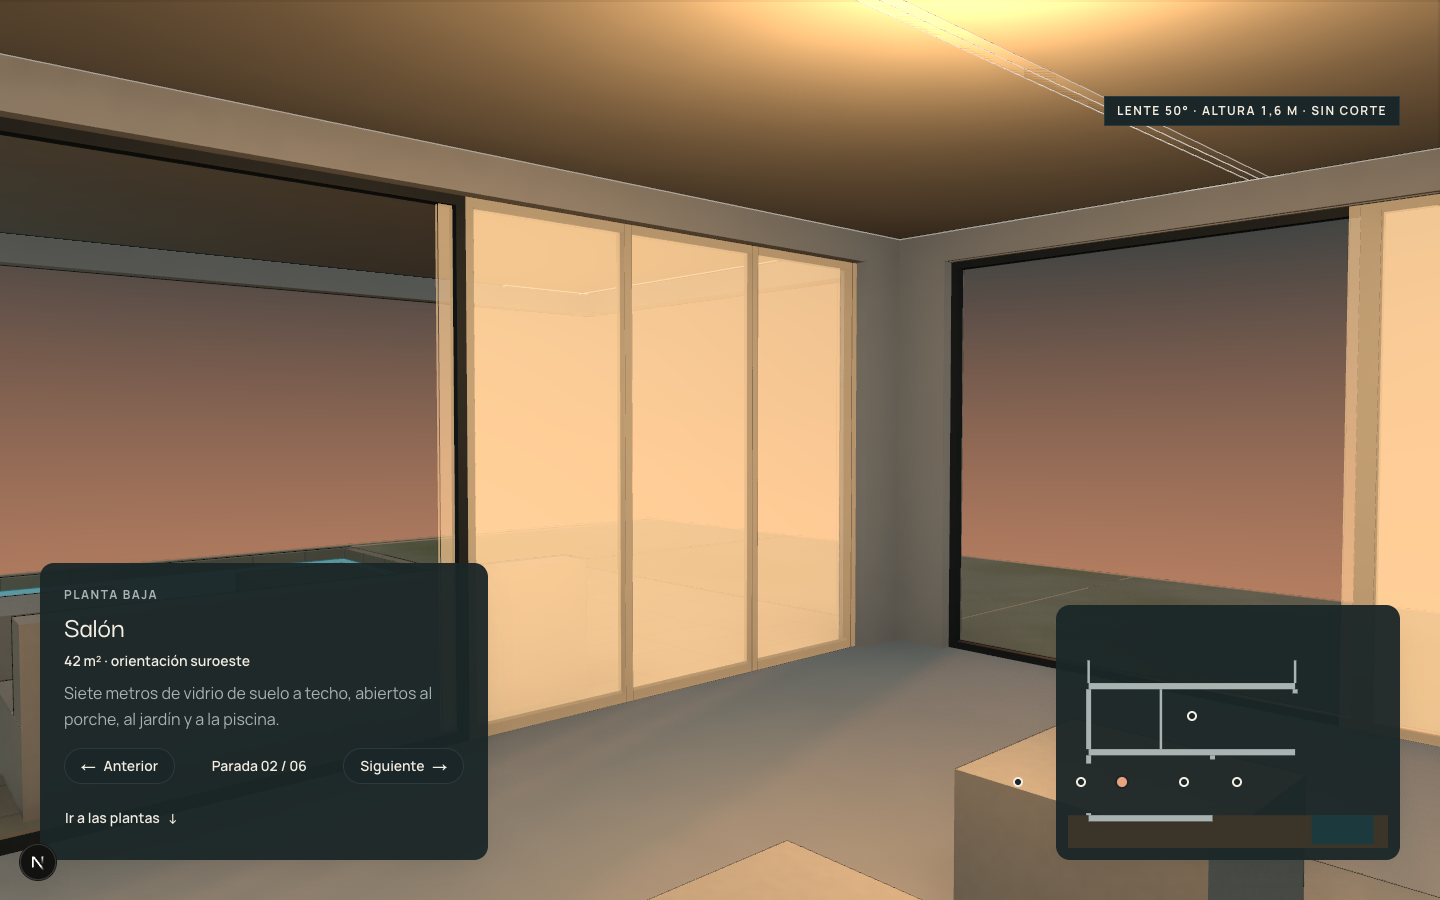
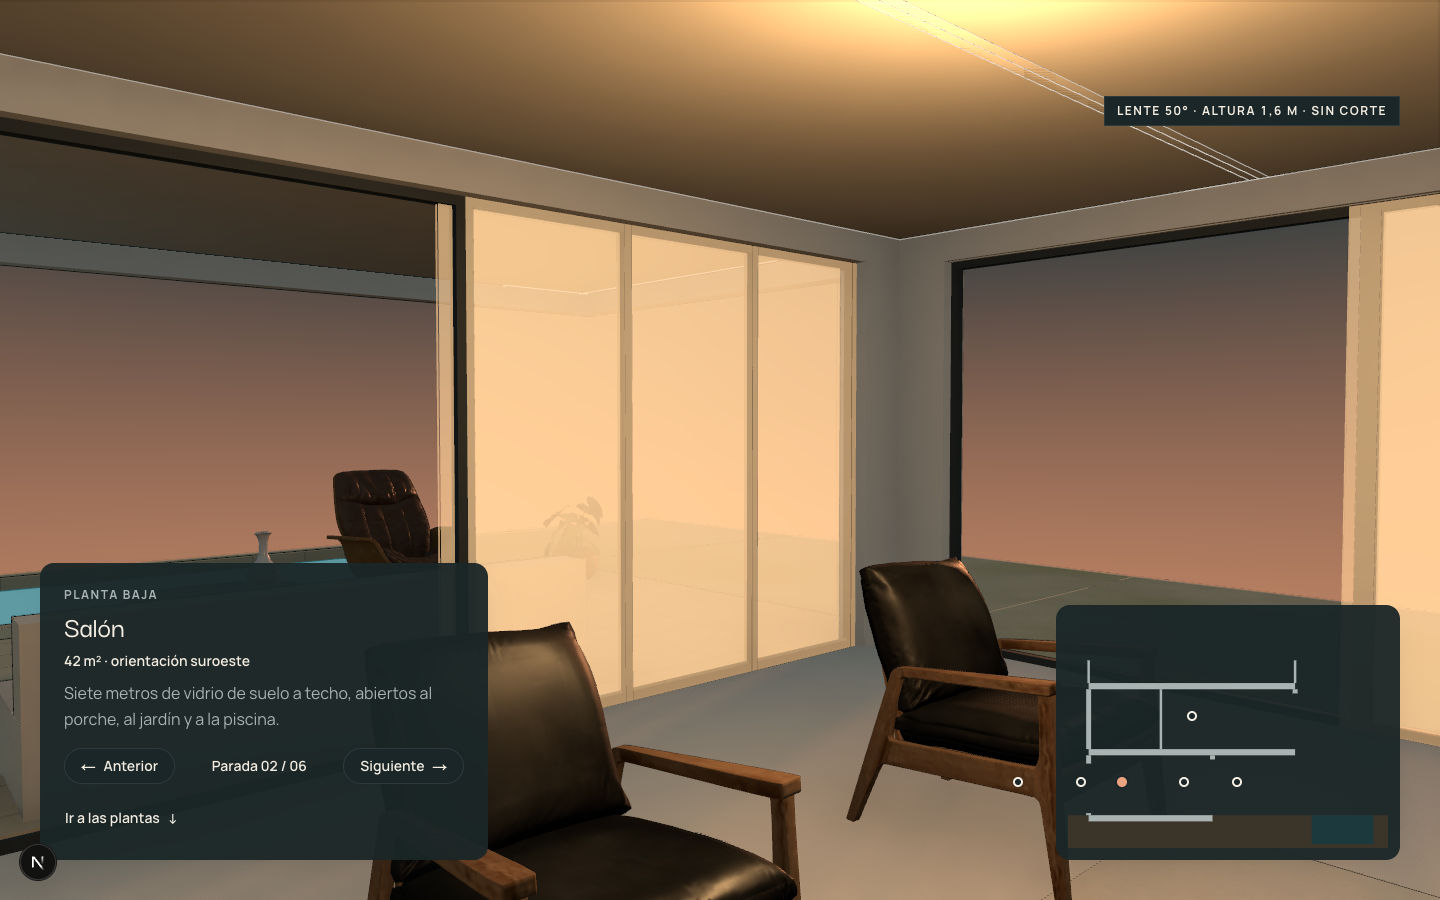
docs: captures of the furnished stops on desktop and mobile, in Día and Noche; the furniture script and its credits in the README (#39)

diff --git a/README.md b/README.md
@@ -13,9 +13,12 @@ npm run check        # lint, format, types, Vitest unit tests and Playwright E2E
 npm run test         # Vitest unit tests only (pure logic, src/**/*.test.ts)
 npm run screenshots  # review captures into docs/screenshots/phase-2 (desktop and mobile, Día and Noche)
 npm run media:flight # rebuild the flight videos, stills and manifest (needs ffmpeg)
+npm run media:furniture # rebuild the house models' furniture, its manifest and its credits
 ```
 
 The flight videos in `public/media/flight/` are placeholders drawn from the brand palette, with the same all-keyframe H.264 and VP9 encoding the Google Flow clips will get. `npm run media:flight -- --from <dir>` runs the real clips through the same pipeline; see [docs/media/flight.md](docs/media/flight.md) for the shot list, the Flow prompts and the encoding.
+
+The furniture in the house models is third-party glTF ([ADR 0007](docs/adr/0007-third-party-3d-assets.md), [ADR 0011](docs/adr/0011-textured-furniture.md)). The originals stay out of the repository, in `assets-src/`. `npm run media:furniture` downloads the Poly Haven pieces into it and takes any piece left there by hand. It simplifies each one, cuts its textures down to WebP (one `.glb` for desktop, a lighter one for mobile) and compresses it with meshopt. It then writes the Zod-checked manifest the plans' furniture is validated against. The origin and licence of every piece are in [docs/credits.md](docs/credits.md).
 
 ## Phase 1: project base
 
